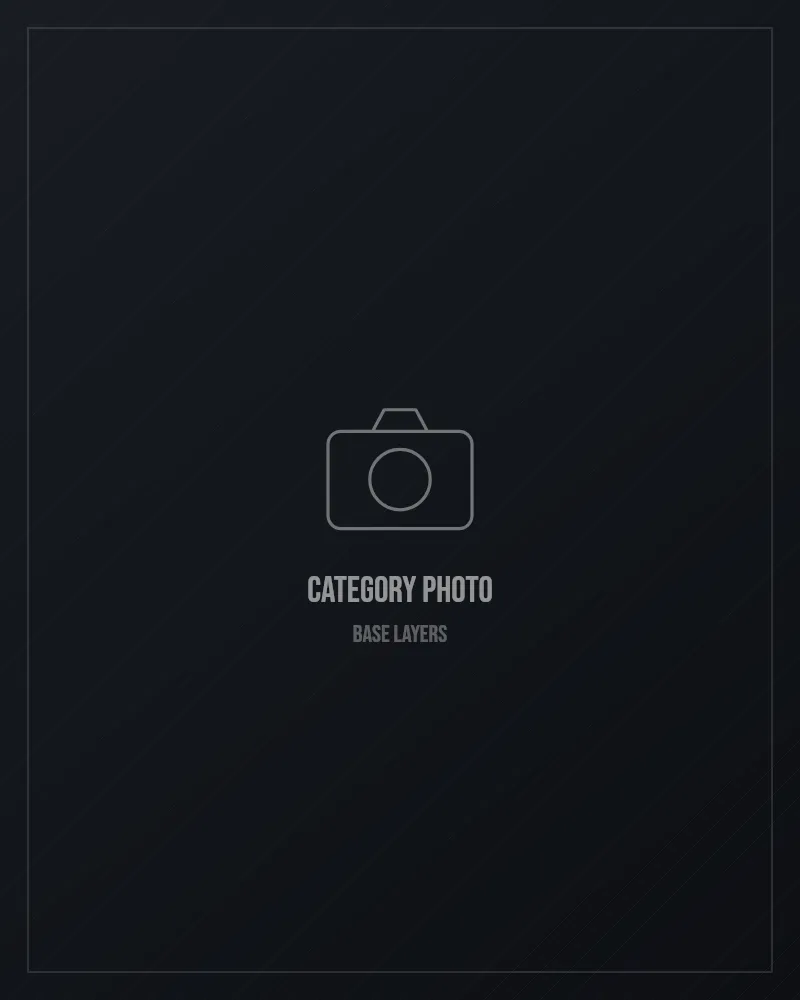
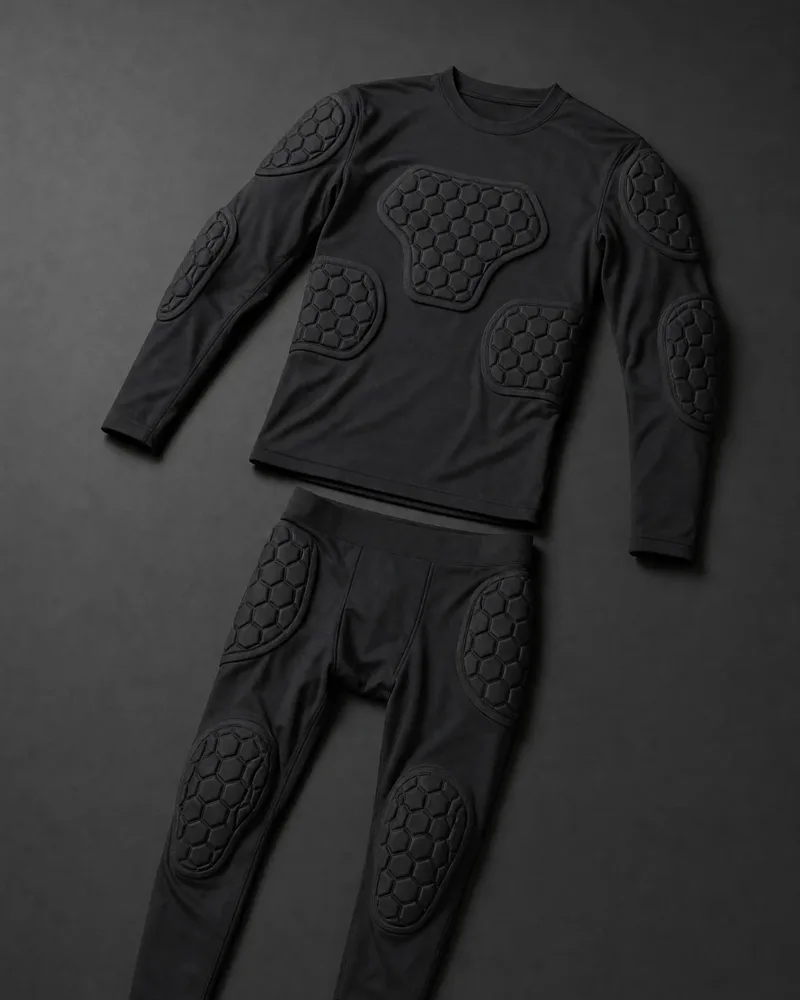
Use the supplied padded base layer photo
- public/images/products/padded-base-layer-1.webp: the photo (1125x2000 portrait),
  shown uncropped on the product page (gallery now 4:5) and the home spotlight,
  top-anchored crop on cards, 4:5 crop as the Base layers category tile.
- Product images can carry their own width/height (default 1200x1200).
- product-source/: untouched original and a note on how it is used.
- Alt text describes only what is visible in the photograph.

Claude-Session: https://claude.ai/code/session_01J6ZAVmXdA6NtQSaqyd5zbD

diff --git a/styles/components.module.css b/styles/components.module.css
@@ -1046,6 +1046,7 @@
   width: 100%;
   height: 100%;
   object-fit: cover;
+  object-position: 50% 22%; /* portrait photos crop from the top, so the garment's neckline stays in frame */
   transition: transform 1.1s var(--ease-expo), opacity var(--dur-slow) var(--ease-out);
 }
 

diff --git a/lib/mock-catalog.js b/lib/mock-catalog.js
@@ -54,8 +54,8 @@ function expandProduct(p) {
   const images = p.images.map((img) => ({
     url: `${IMAGE_BASE}/${img.file}.webp`,
     altText: img.alt,
-    width: 1200,
-    height: 1200,
+    width: img.width || 1200,
+    height: img.height || 1200,
   }));
 
   return {

diff --git a/styles/pages.module.css b/styles/pages.module.css
@@ -322,7 +322,7 @@
 
 .galleryStage {
   position: relative;
-  aspect-ratio: 1;
+  aspect-ratio: 4 / 5;
   border-radius: var(--radius-lg);
   overflow: hidden;
   border: 1px solid var(--color-line);

diff --git a/product-source/README.md b/product-source/README.md
@@ -1,0 +1,10 @@
+# Product photo originals
+
+Full-size originals of the product photographs, kept here (not published) so crops can be remade.
+
+- `padded-base-layer.webp`: the Padded Base Layer photo (1125×2000, portrait). Published as
+  `public/images/products/padded-base-layer-1.webp` (used as-is on the product page, spotlight and cards) and cropped to 4:5
+  as the Base layers tile, `public/images/categories/base-layers.webp`.
+
+Image sizes are read from `data/products.json` (`width` / `height` per image, default 1200×1200), so portrait photos
+display without distortion. `npm run assets` never overwrites an existing image unless you pass `--force`.
